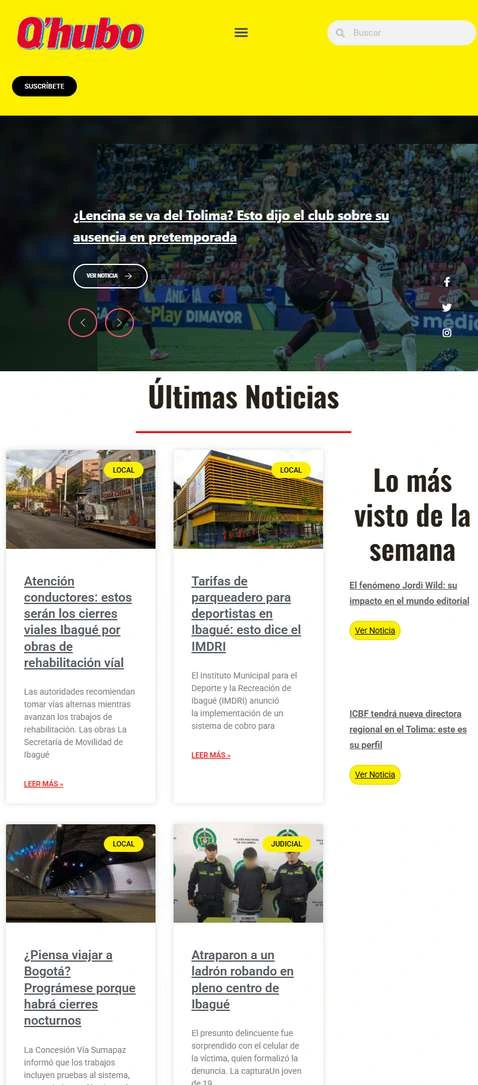
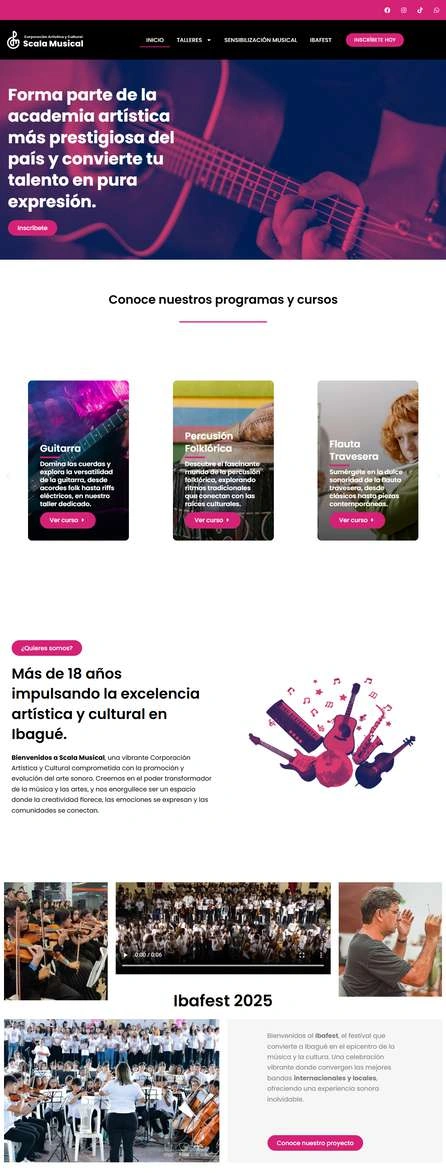
fix(projects): corregir mapeo de imagenes de Q'hubo, Vinaga y Scala, y resolver truncamiento de visuales web

diff --git a/index.html b/index.html
@@ -1020,10 +1020,10 @@
           <div class="projects-grid">
             <!-- Proyecto: Scala Musical -->
             <article class="project-card">
-              <div class="project-visual project-visual-scroll">
-                <img src="images/pdf_projects/web-scala-musical.webp" alt="Scala Musical — Portal Web Institucional" width="600" height="1360" loading="lazy">
+              <a href="images/pdf_projects/web-scala-musical.webp" target="_blank" rel="noopener noreferrer" class="project-visual project-visual-scroll" title="Click para ver captura completa en alta resolución">
+                <img src="images/pdf_projects/web-scala-musical.webp" alt="Scala Musical — Portal Web Institucional" width="446" height="1173" loading="lazy">
                 <span class="project-badge-lead">Web Design &amp; Dev</span>
-              </div>
+              </a>
               <div class="project-content">
                 <div class="project-header">
                   <h3 class="project-title">Corporación Scala Musical</h3>
@@ -1033,8 +1033,16 @@
                   Diseño web y desarrollo integral para corporación y academia musical. Experiencia inmersiva con catálogo de programas artísticos, sistema de inscripción y arquitectura de información optimizada.
                 </p>
                 <div class="project-footer">
-                  <span class="project-link" style="color:var(--color-muted); cursor:default;">
-                    <span>Portal Institucional &amp; Academia</span>
+                  <a href="images/pdf_projects/web-scala-musical.webp" target="_blank" rel="noopener noreferrer" class="project-link">
+                    <span>Ver captura completa</span>
+                    <svg width="13" height="13" viewBox="0 0 24 24" fill="none" stroke="currentColor" stroke-width="2" stroke-linecap="round" stroke-linejoin="round" aria-hidden="true">
+                      <path d="M18 13v6a2 2 0 0 1-2 2H5a2 2 0 0 1-2-2V8a2 2 0 0 1 2-2h6"></path>
+                      <polyline points="15 3 21 3 21 9"></polyline>
+                      <line x1="10" y1="14" x2="21" y2="3"></line>
+                    </svg>
+                  </a>
+                  <span class="project-link" style="color:var(--color-muted); font-size:var(--fs-xs); pointer-events:none;">
+                    <span>Hover para explorar</span>
                   </span>
                 </div>
               </div>
@@ -1042,10 +1050,10 @@
 
             <!-- Proyecto: Periódico Q'hubo -->
             <article class="project-card">
-              <div class="project-visual project-visual-scroll">
-                <img src="images/pdf_projects/web-qhubo.webp" alt="Periódico Q'hubo — Portal de Noticias" width="600" height="1280" loading="lazy">
+              <a href="images/pdf_projects/web-qhubo.webp" target="_blank" rel="noopener noreferrer" class="project-visual project-visual-scroll" title="Click para ver captura completa en alta resolución">
+                <img src="images/pdf_projects/web-qhubo.webp" alt="Periódico Q'hubo — Portal de Noticias" width="478" height="1085" loading="lazy">
                 <span class="project-badge-lead">Editorial &amp; UI</span>
-              </div>
+              </a>
               <div class="project-content">
                 <div class="project-header">
                   <h3 class="project-title">Periódico Q'hubo Ibagué</h3>
@@ -1055,8 +1063,16 @@
                   Portal de noticias digital para medio de comunicación regional de alto tráfico. Maquetación orientada a la legibilidad ágil, jerarquización de primicias informativas y optimización móvil.
                 </p>
                 <div class="project-footer">
-                  <span class="project-link" style="color:var(--color-muted); cursor:default;">
-                    <span>Medio de Comunicación Digital</span>
+                  <a href="images/pdf_projects/web-qhubo.webp" target="_blank" rel="noopener noreferrer" class="project-link">
+                    <span>Ver captura completa</span>
+                    <svg width="13" height="13" viewBox="0 0 24 24" fill="none" stroke="currentColor" stroke-width="2" stroke-linecap="round" stroke-linejoin="round" aria-hidden="true">
+                      <path d="M18 13v6a2 2 0 0 1-2 2H5a2 2 0 0 1-2-2V8a2 2 0 0 1 2-2h6"></path>
+                      <polyline points="15 3 21 3 21 9"></polyline>
+                      <line x1="10" y1="14" x2="21" y2="3"></line>
+                    </svg>
+                  </a>
+                  <span class="project-link" style="color:var(--color-muted); font-size:var(--fs-xs); pointer-events:none;">
+                    <span>Hover para explorar</span>
                   </span>
                 </div>
               </div>
@@ -1064,10 +1080,10 @@
 
             <!-- Proyecto: Vinaga -->
             <article class="project-card">
-              <div class="project-visual project-visual-scroll">
-                <img src="images/pdf_projects/web-vinaga.webp" alt="Vinaga — Tienda Virtual de Moda" width="600" height="1470" loading="lazy">
+              <a href="images/pdf_projects/web-vinaga.webp" target="_blank" rel="noopener noreferrer" class="project-visual project-visual-scroll" title="Click para ver captura completa en alta resolución">
+                <img src="images/pdf_projects/web-vinaga.webp" alt="Vinaga — Tienda Virtual de Moda" width="478" height="1025" loading="lazy">
                 <span class="project-badge-lead">E-Commerce &amp; UI</span>
-              </div>
+              </a>
               <div class="project-content">
                 <div class="project-header">
                   <h3 class="project-title">Vinaga — Tienda Virtual</h3>
@@ -1077,8 +1093,16 @@
                   Tienda virtual de moda y calzado con catálogo interactivo de productos, experiencia de checkout depurada, diseño visual minimalista y navegación orientada a la venta directa.
                 </p>
                 <div class="project-footer">
-                  <span class="project-link" style="color:var(--color-muted); cursor:default;">
-                    <span>Plataforma E-Commerce</span>
+                  <a href="images/pdf_projects/web-vinaga.webp" target="_blank" rel="noopener noreferrer" class="project-link">
+                    <span>Ver captura completa</span>
+                    <svg width="13" height="13" viewBox="0 0 24 24" fill="none" stroke="currentColor" stroke-width="2" stroke-linecap="round" stroke-linejoin="round" aria-hidden="true">
+                      <path d="M18 13v6a2 2 0 0 1-2 2H5a2 2 0 0 1-2-2V8a2 2 0 0 1 2-2h6"></path>
+                      <polyline points="15 3 21 3 21 9"></polyline>
+                      <line x1="10" y1="14" x2="21" y2="3"></line>
+                    </svg>
+                  </a>
+                  <span class="project-link" style="color:var(--color-muted); font-size:var(--fs-xs); pointer-events:none;">
+                    <span>Hover para explorar</span>
                   </span>
                 </div>
               </div>

diff --git a/styles.css b/styles.css
@@ -1242,17 +1242,34 @@ html[data-theme="light"] .method-card:hover .method-icon {
 
 /* Modificadores de Visualización para tipos de proyectos del portafolio */
 .project-visual-scroll {
-  height: 270px;
+  height: 360px;
+  overflow: hidden;
+  position: relative;
+  background: var(--color-surface-2);
+  display: block;
 }
 
 .project-visual-scroll img {
-  object-position: top center;
-  transition: object-position 3.5s ease-in-out, transform 0.4s var(--ease);
+  width: 100%;
+  height: auto;
+  max-width: none;
+  object-fit: unset;
+  object-position: unset;
+  display: block;
+  transform: translateY(0);
+  transition: transform 6s cubic-bezier(0.25, 1, 0.5, 1);
+  will-change: transform;
 }
 
 .project-card:hover .project-visual-scroll img {
-  object-position: bottom center;
-  transform: none;
+  transform: translateY(calc(-100% + 360px));
+}
+
+@media (hover: none) {
+  .project-visual-scroll {
+    overflow-y: auto;
+    -webkit-overflow-scrolling: touch;
+  }
 }
 
 .project-visual-app {
@@ -1364,16 +1381,20 @@ html[data-theme="light"] .method-card:hover .method-icon {
   text-transform: uppercase;
   letter-spacing: 0.06em;
   padding: 0.35rem 0.75rem;
-  background: rgba(255, 255, 255, 0.12);
-  border: 1px solid rgba(255, 255, 255, 0.35);
+  background: rgba(18, 18, 18, 0.88);
+  backdrop-filter: blur(8px);
+  border: 1px solid rgba(255, 255, 255, 0.2);
   color: #ffffff;
   border-radius: 9999px !important;
+  z-index: 2;
+  box-shadow: 0 2px 8px rgba(0, 0, 0, 0.35);
 }
 
 html[data-theme="light"] .project-badge-lead {
-  background: rgba(18, 18, 18, 0.08);
-  border: 1px solid rgba(18, 18, 18, 0.25);
+  background: rgba(255, 255, 255, 0.9);
+  border: 1px solid rgba(0, 0, 0, 0.15);
   color: #121212;
+  box-shadow: 0 2px 8px rgba(0, 0, 0, 0.1);
 }
 
 .project-content {
